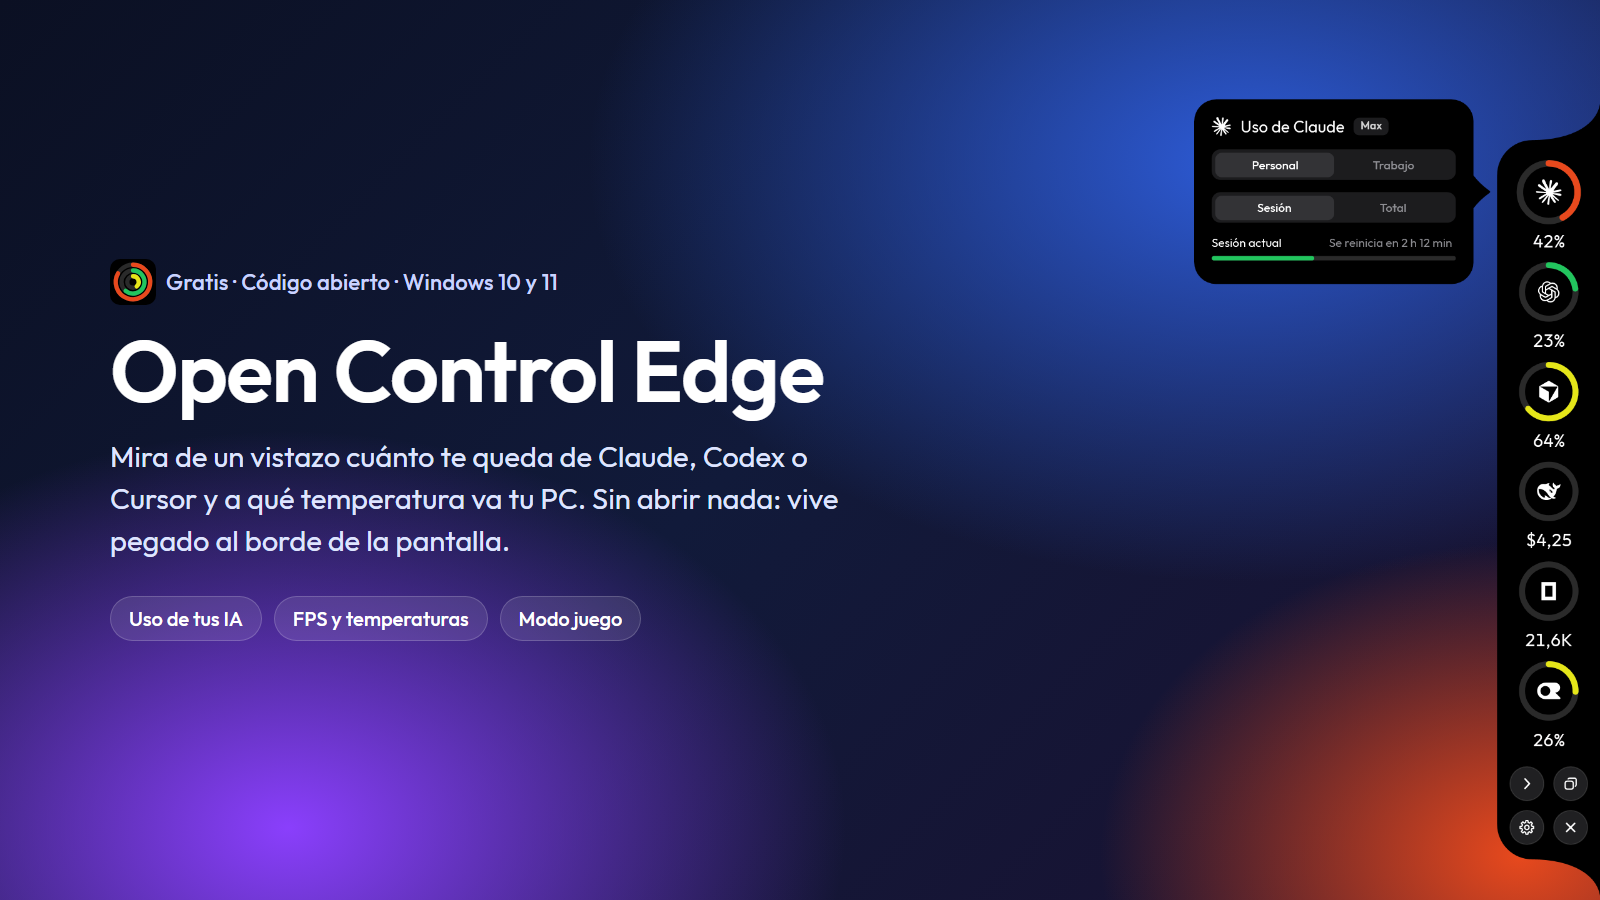
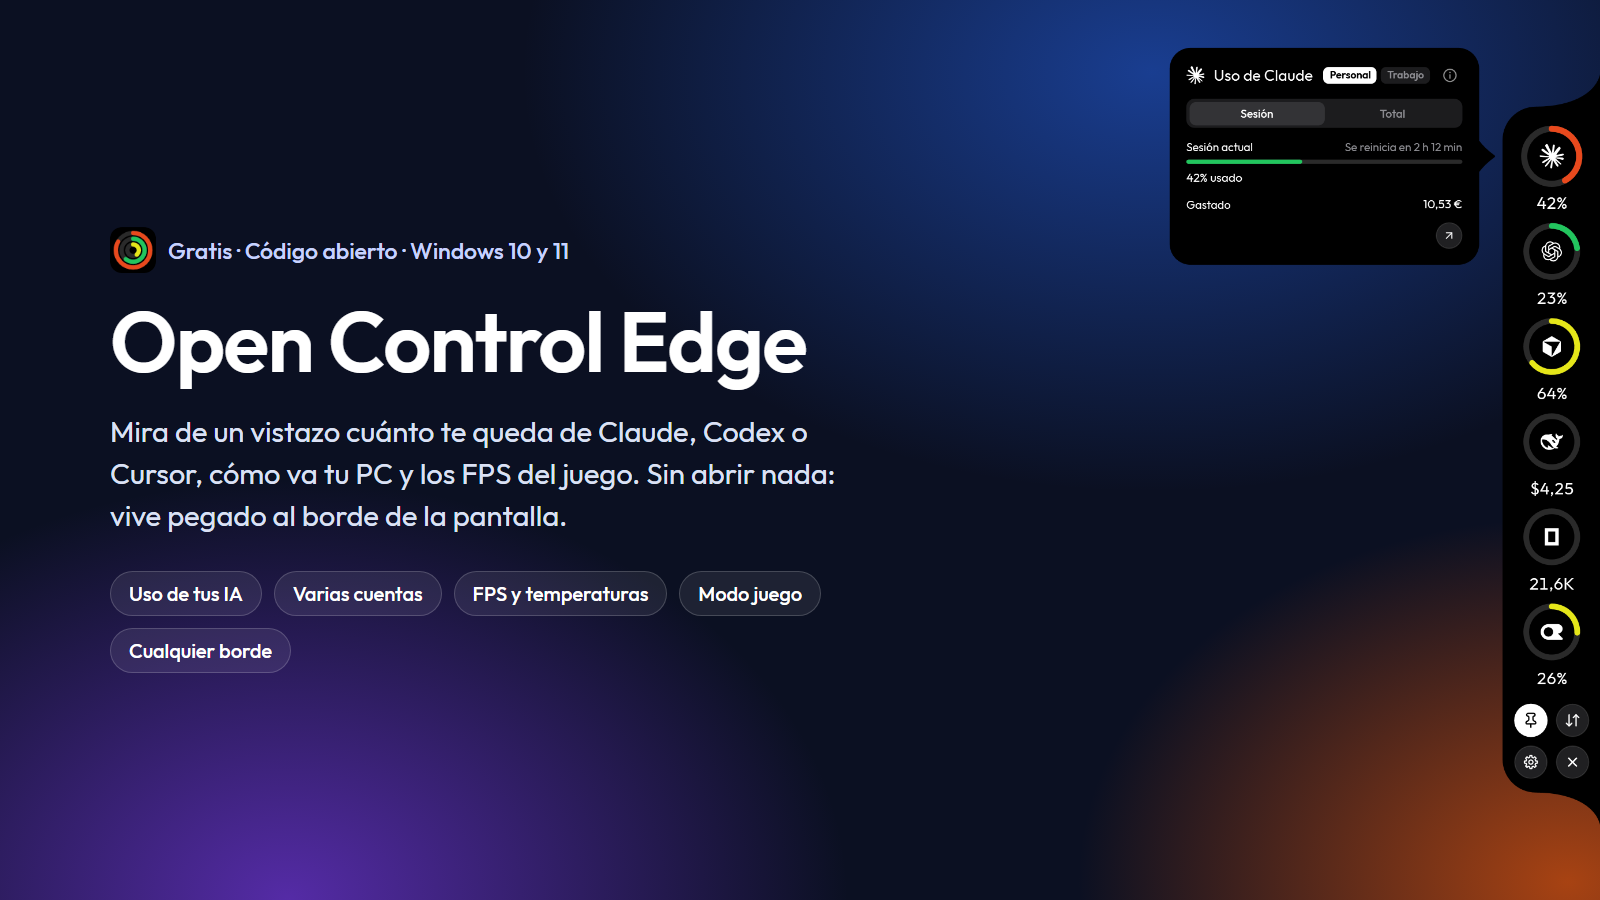
Actualiza Open Control Edge a la 3.0: portada nueva, novedades y versiones

diff --git a/README.md b/README.md
@@ -37,12 +37,12 @@
     <td width="50%" valign="top">
       <a href="https://github.com/danielfinchdev/open-control-edge"><img src="assets/open-control-edge.png" alt="Open Control Edge" /></a>
       <h4><a href="https://github.com/danielfinchdev/open-control-edge">Open Control Edge</a></h4>
-      <p>Widget pegado al borde de la pantalla de Windows 11: cuánto te queda de Claude, Codex o Cursor y a qué temperatura va tu PC, sin abrir nada.</p>
+      <p>Widget pegado al borde de la pantalla de Windows: cuánto te queda de Claude, Codex o Cursor (de todas tus cuentas), a qué temperatura va tu PC y los FPS del juego, sin abrir nada.</p>
       <p>
         <a href="https://github.com/danielfinchdev/open-control-edge/releases/latest"><img src="https://img.shields.io/github/v/release/danielfinchdev/open-control-edge?label=%C3%BAltima%20versi%C3%B3n&color=2ea44f" alt="Última versión" /></a>
         <img src="https://img.shields.io/badge/C%23-.NET%2010-512BD4" alt="C# y .NET 10" />
       </p>
-      <p><b>Novedades de la 2.2:</b> vistas de IA y de PC, FPS del juego, modo juego, varias cuentas por IA y actualización automática.</p>
+      <p><b>Novedades de la 3.0:</b> en cualquier borde y pantalla (o donde lo sueltes), encuentra solas todas tus cuentas de IA en cualquier disco, fecha de renovación de tu suscripción, botón para abrir cada IA, ajustes renovados y arranque más seguro.</p>
     </td>
     <td width="50%" valign="top">
       <a href="https://github.com/danielfinchdev/orb-dev"><img src="assets/orb-dev.png" alt="Orb.dev" /></a>
@@ -62,6 +62,8 @@
 
 | Fecha | Proyecto | Versión | Lo más destacado |
 | --- | --- | --- | --- |
+| 11 oct 2026 | Open Control Edge | [3.0.0](https://github.com/danielfinchdev/open-control-edge/releases/tag/v3.0.0) | Cualquier borde y pantalla, todas tus cuentas solas, suscripción y arranque más seguro |
+| 11 oct 2026 | Open Control Edge | [2.3.0](https://github.com/danielfinchdev/open-control-edge/releases/tag/v2.3.0) | Conexión con Orb |
 | 9 oct 2026 | Orb.dev | [2.3.1](https://github.com/danielfinchdev/orb-dev/releases/tag/v2.3.1) | Proyectos por categoría, Android listo con adb e instalador |
 | 8 oct 2026 | Open Control Edge | [2.2.0](https://github.com/danielfinchdev/open-control-edge/releases/tag/v2.2.0) | Vistas IA / PC, FPS, modo juego y varias cuentas |
 | 5 oct 2026 | Orb.dev | [2.3.0](https://github.com/danielfinchdev/orb-dev/releases/tag/v2.3.0) | Agentes en directo, más agentes (ACP), delegación y Task Review |
